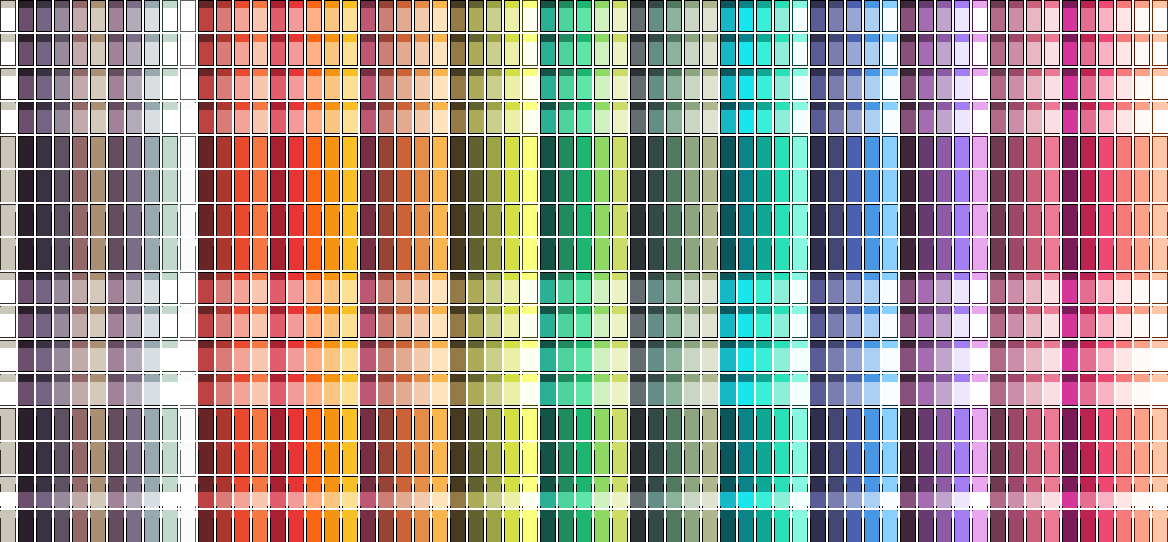
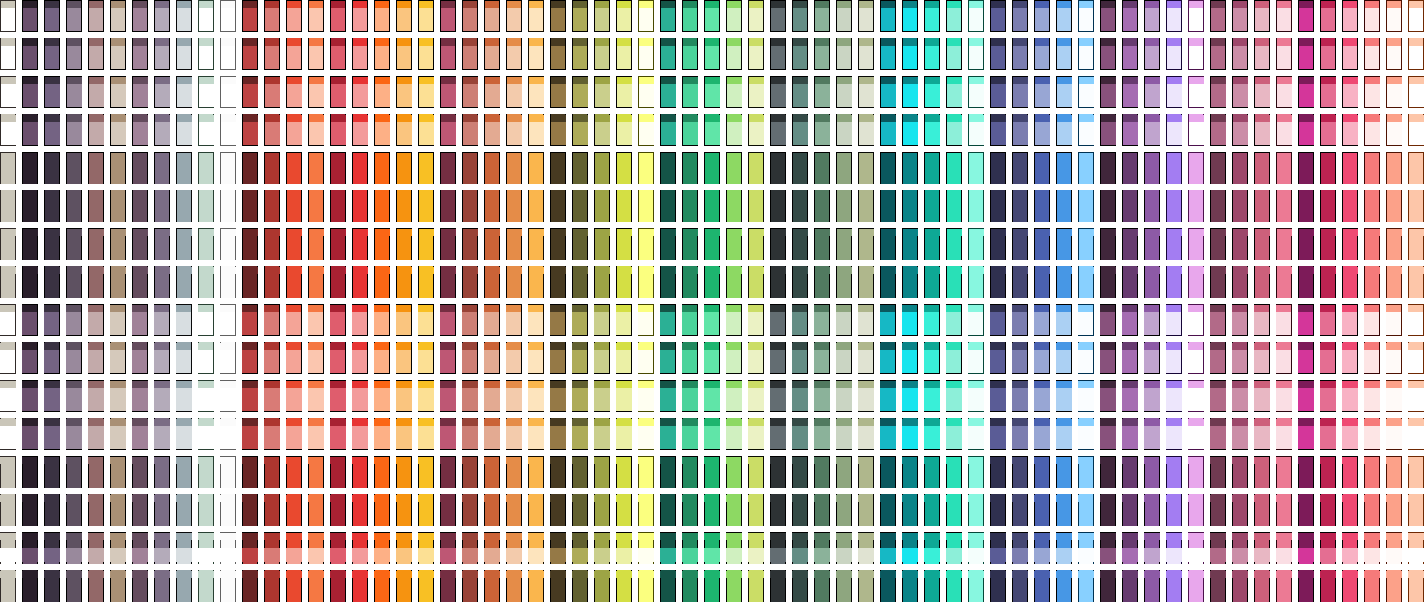
tiled: 6px wall spacing, fix broken image import, support image flip
- Bump WALL_TILE_SPACING 2 -> 6px per feedback (still just a sheet-layout
  spacer, no GID/index math affected).
- Fix images not rendering: import hardcoded png/images/<imageId>.png as
  the ONLY source for a tile's bytes, ignoring the tile's own `image`
  path entirely. A tile added directly in Tiled's Tileset editor (Edit
  Tileset -> Add Tiles, pointing at any file) now resolves correctly —
  confirmed against the live uponu map's "uponu_logo" image, which
  silently failed to import before this. TiledRegistry now carries each
  tile's own `image` field to make this possible.
- Fix a related double-import bug surfaced by the same map: an object
  copy-pasted from an Image and then edited into a plain text label kept
  its old `type: 'Image'` + `imageId` property, so it imported as BOTH a
  broken image and a text label. A native Tiled Text object (has its own
  `text` field) now wins outright over any such stale `type`.
- PlacedImage gains flippedHorizontally/flippedVertically, mapped onto
  Tiled's native GID flip bits (H and V only, no diagonal) and applied at
  render time — unlike furniture's hand-drawn 2.5D art, an arbitrary
  uploaded image has no fixed camera angle, so both directions are safe.

diff --git a/server/src/tiled/mapBridge.ts b/server/src/tiled/mapBridge.ts
@@ -46,11 +46,15 @@ function wallBitmask(layout: OfficeLayout, col: number, row: number): number {
   return mask;
 }
 
-/** Tiled's own GID horizontal-flip bit (top bit of the 32-bit GID field) —
- *  plain addition/subtraction, not a bitwise op: these GIDs are always far
- *  below 2^31, and JS's bitwise operators coerce to signed Int32 first,
- *  which would turn 0x80000000 negative. */
+/** Tiled's own GID flip bits (top two bits of the 32-bit GID field) — plain
+ *  addition/subtraction, not a bitwise op: these GIDs are always far below
+ *  2^31, and JS's bitwise operators coerce to signed Int32 first, which
+ *  would turn 0x80000000/0x40000000 negative. Only H/V are used (see
+ *  PlacedFurniture/PlacedImage's flippedHorizontally/flippedVertically) —
+ *  Tiled's third bit (diagonal flip, 0x20000000) has no corresponding
+ *  concept here and is never set or read. */
 const TILED_FLIP_H = 0x80000000;
+const TILED_FLIP_V = 0x40000000;
 
 /** `flippedHorizontally` (see PlacedFurniture) maps directly onto Tiled's own
  *  GID flip bit — purely cosmetic, so Tiled's canvas shows a real mirrored
@@ -294,8 +298,9 @@ export function exportLayoutToTmj(layout: OfficeLayout, registry: TiledRegistry,
   // images.tsj (not yet baked since it was uploaded) is skipped, matching
   // the live renderer's own skip for a deleted image.
   const imageObjects = (layout.images ?? []).flatMap((im, idx) => {
-    const gid = findGid(registry, 'images.tsj', (props) => props.imageId === im.imageId);
-    if (gid === null) return [];
+    const baseGid = findGid(registry, 'images.tsj', (props) => props.imageId === im.imageId);
+    if (baseGid === null) return [];
+    const gid = baseGid + (im.flippedHorizontally ? TILED_FLIP_H : 0) + (im.flippedVertically ? TILED_FLIP_V : 0);
     return [
       {
         id: idx + 1,
@@ -439,8 +444,10 @@ export function importTmjToLayout(
   // silently dropped — verified against a real hand-authored map where over
   // half the placed furniture had exactly this shape.
   const baseGid = (gid: unknown): number => {
-    const raw = Number(gid) || 0;
-    return raw >= TILED_FLIP_H ? raw - TILED_FLIP_H : raw;
+    let raw = Number(gid) || 0;
+    if (raw >= TILED_FLIP_H) raw -= TILED_FLIP_H;
+    if (raw >= TILED_FLIP_V) raw -= TILED_FLIP_V;
+    return raw;
   };
   const isFurnitureTileObject = (o: Record<string, unknown>): boolean => {
     const gid = baseGid(o.gid);
@@ -454,10 +461,19 @@ export function importTmjToLayout(
     const gid = baseGid(o.gid);
     return gid > 0 && resolveGid(gid)?.class === 'ImageTile';
   };
-  const furnitureObjects = allObjects.filter((o) => o.type === 'FurnitureObject' || isFurnitureTileObject(o));
-  const actionObjects = allObjects.filter((o) => o.type === 'ActionArea');
-  const textObjects = allObjects.filter((o) => o.text !== undefined);
-  const imageObjects = allObjects.filter((o) => o.type === 'Image' || isImageTileObject(o));
+  // Tiled's own `text` field is set structurally only by a genuine native
+  // Text object (Insert Text) — never by a custom `type`/property, unlike
+  // every other classification below. It wins outright over a stale/leftover
+  // `type: 'Image'` (etc.) that a copy-pasted-then-retyped object can end up
+  // dragging along from whatever it was copied from — confirmed against a
+  // live map where two objects copy-pasted from an Image and then edited
+  // into plain text labels still carried the old `type: 'Image'` + `imageId`
+  // property, silently double-importing as a broken image AND a text label.
+  const isTextObject = (o: Record<string, unknown>): boolean => o.text !== undefined;
+  const furnitureObjects = allObjects.filter((o) => !isTextObject(o) && (o.type === 'FurnitureObject' || isFurnitureTileObject(o)));
+  const actionObjects = allObjects.filter((o) => !isTextObject(o) && o.type === 'ActionArea');
+  const textObjects = allObjects.filter(isTextObject);
+  const imageObjects = allObjects.filter((o) => !isTextObject(o) && (o.type === 'Image' || isImageTileObject(o)));
 
   const tiles: number[] = [];
   const tileColors: OfficeLayout['tileColors'] = [];
@@ -597,12 +613,16 @@ export function importTmjToLayout(
     const imageId = typeof props.imageId === 'string' && props.imageId ? props.imageId : typeof resolvedTile?.props.imageId === 'string' ? resolvedTile.props.imageId : null;
     if (!imageId) continue;
     const footprintH = Math.max(1, Math.round(Number(obj.height) / TILE_SIZE));
-    // Baked images live at one global location (assets/tiled/png/images/),
-    // never zone-relative — readImageFile resolves against assets/tiled
-    // itself (see zoneImport.ts).
-    const buffer = readImageFile(`png/images/${imageId}.png`);
+    // Prefer the tile's own declared `image` path — a mapper can add a tile
+    // straight in Tiled's Tileset editor (Edit Tileset → Add Tiles) pointing
+    // at whatever file they picked, entirely bypassing bake-images-tiled.mts
+    // and its png/images/<imageId>.png convention; that convention is only a
+    // fallback for the cases with no such tile at all (a bare `type: 'Image'`
+    // object with no gid). readImageFile resolves both against assets/tiled
+    // itself, never zone-relative (see zoneImport.ts).
+    const buffer = readImageFile(resolvedTile?.image ?? `png/images/${imageId}.png`);
     if (buffer) importedImages.push({ imageId, label: imageId, buffer });
-    images.push({
+    const image: PlacedImage = {
       uid: generateUid(),
       col: Math.round(Number(obj.x) / TILE_SIZE),
       // Same bottom-edge Y anchor as any other GID-backed tile object — see
@@ -611,7 +631,17 @@ export function importTmjToLayout(
       footprintW: Math.max(1, Math.round(Number(obj.width) / TILE_SIZE)),
       footprintH,
       imageId,
-    });
+    };
+    // Decode both flip bits independently — strip H first so a lingering H
+    // bit can't be mistaken for V (H > V, so any H-flipped gid is already
+    // >= TILED_FLIP_V on its own).
+    let flipBits = rawGid;
+    if (flipBits >= TILED_FLIP_H) {
+      image.flippedHorizontally = true;
+      flipBits -= TILED_FLIP_H;
+    }
+    if (flipBits >= TILED_FLIP_V) image.flippedVertically = true;
+    images.push(image);
   }
 
   const layout: OfficeLayout = {

diff --git a/server/src/tiled/tiledRegistry.ts b/server/src/tiled/tiledRegistry.ts
@@ -20,6 +20,7 @@ type TiledProp = { name: string; type?: string; value: string | number | boolean
 interface TiledTileJson {
   id: number;
   type?: string;
+  image?: string;
   properties?: TiledProp[];
 }
 interface TiledTilesetJson {
@@ -34,6 +35,13 @@ export interface RegistryTile {
    *  tile (e.g. collision.tsj's parameterless marker). */
   class?: string;
   props: Record<string, string | number | boolean>;
+  /** This tile's own `image` path (relative to assets/tiled/), for a
+   *  "Collection of Images" tile (see images.tsj/ImageTile) — e.g. a tile a
+   *  mapper added directly in Tiled's Tileset editor, pointing at whatever
+   *  file they picked, not necessarily one baked by bake-images-tiled.mts.
+   *  Undefined for tiles from a single-image (grid) tileset, where the path
+   *  lives on the tileset itself instead. */
+  image?: string;
 }
 
 export interface RegistryTileset {
@@ -78,7 +86,7 @@ export function loadTiledRegistry(assetsRoot: string): TiledRegistry {
     const tiles: RegistryTile[] = [];
     for (let id = 0; id < json.tilecount; id++) {
       const t = byId.get(id);
-      tiles.push({ class: t?.type, props: t ? propsOf(t) : {} });
+      tiles.push({ class: t?.type, props: t ? propsOf(t) : {}, image: t?.image });
     }
     tilesets.push({ file, name: json.name, firstgid: nextGid, tileCount: json.tilecount, tiles });
     nextGid += json.tilecount;
@@ -124,7 +132,7 @@ export function gidAt(registry: TiledRegistry, file: string, localId: number): n
 export function resolveFromTmjTilesets(
   registry: TiledRegistry,
   tmjTilesets: Array<{ firstgid: number; source: string }>,
-): (gid: number) => { tileset: RegistryTileset; localId: number; class?: string; props: Record<string, string | number | boolean> } | null {
+): (gid: number) => { tileset: RegistryTileset; localId: number; class?: string; props: Record<string, string | number | boolean>; image?: string } | null {
   const entries = tmjTilesets
     .map((t) => {
       const ts = registry.bySource(path.basename(String(t.source)));
@@ -138,7 +146,7 @@ export function resolveFromTmjTilesets(
       if (gid >= firstgid && gid < firstgid + tileset.tileCount) {
         const localId = gid - firstgid;
         const tile = tileset.tiles[localId];
-        return { tileset, localId, class: tile?.class, props: tile?.props ?? {} };
+        return { tileset, localId, class: tile?.class, props: tile?.props ?? {}, image: tile?.image };
       }
     }
     return null;

diff --git a/server/src/layoutSanitize.ts b/server/src/layoutSanitize.ts
@@ -63,7 +63,16 @@ export function sanitizeLayoutTexts(layout: Record<string, unknown>): Record<str
 export function sanitizeLayoutImages(layout: Record<string, unknown>): Record<string, unknown> {
   const images = layout.images;
   if (!Array.isArray(images)) return layout;
-  const clean: Array<{ uid: string; col: number; row: number; footprintW: number; footprintH: number; imageId: string }> = [];
+  const clean: Array<{
+    uid: string;
+    col: number;
+    row: number;
+    footprintW: number;
+    footprintH: number;
+    imageId: string;
+    flippedHorizontally?: boolean;
+    flippedVertically?: boolean;
+  }> = [];
   for (const img of images) {
     if (clean.length >= MAX_PLACED_IMAGES) break;
     if (!img || typeof img !== 'object') continue;
@@ -73,7 +82,10 @@ export function sanitizeLayoutImages(layout: Record<string, unknown>): Record<st
     const fw = Number(rec.footprintW);
     const fh = Number(rec.footprintH);
     if (!Number.isInteger(fw) || !Number.isInteger(fh) || fw < 1 || fh < 1 || fw > 16 || fh > 16) continue;
-    clean.push({ uid: rec.uid, col: rec.col, row: rec.row, footprintW: fw, footprintH: fh, imageId: rec.imageId });
+    const entry: (typeof clean)[number] = { uid: rec.uid, col: rec.col, row: rec.row, footprintW: fw, footprintH: fh, imageId: rec.imageId };
+    if (rec.flippedHorizontally === true) entry.flippedHorizontally = true;
+    if (rec.flippedVertically === true) entry.flippedVertically = true;
+    clean.push(entry);
   }
   layout.images = clean;
   return layout;

diff --git a/server/src/tiled/zoneImport.ts b/server/src/tiled/zoneImport.ts
@@ -63,10 +63,10 @@ export function resolveZoneId(tmjPath: string, filename: string): string {
 /** Import one zones/<file>.tmj into a saved layout for `zoneId`, making it
  *  that zone's active layout (matches LayoutStore.saveAs, the same call the
  *  in-game "Save As" uses). Placed images resolve against assets/tiled
- *  itself (png/images/<id>.png, baked by bake-images-tiled.mts) — one global
- *  location, not zone-relative, since the underlying Tiled object is now a
- *  real GID-backed tile from the shared images.tsj tileset (see
- *  mapBridge.ts). */
+ *  itself, never zone-relative — either the referenced tile's own `image`
+ *  path (any file a mapper added directly via Tiled's Tileset editor), or
+ *  the png/images/<id>.png convention bake-images-tiled.mts writes, as a
+ *  fallback for a bare (non-tile) Image object (see mapBridge.ts). */
 export async function importZoneTmjFile(
   tmjPath: string,
   registry: TiledRegistry,

diff --git a/client/src/render/PhaserRenderer.ts b/client/src/render/PhaserRenderer.ts
@@ -213,7 +213,14 @@ export class PhaserRenderer {
       const y = pi.row * TILE_SIZE;
       const w = pi.footprintW * TILE_SIZE;
       const h = pi.footprintH * TILE_SIZE;
-      const img = this.scene.add.image(0, 0, '__DEFAULT').setOrigin(0, 0).setPosition(x, y).setDisplaySize(w, h).setDepth(IMAGE_DEPTH);
+      const img = this.scene.add
+        .image(0, 0, '__DEFAULT')
+        .setOrigin(0, 0)
+        .setPosition(x, y)
+        .setDisplaySize(w, h)
+        .setDepth(IMAGE_DEPTH)
+        .setFlipX(!!pi.flippedHorizontally)
+        .setFlipY(!!pi.flippedVertically);
       ensureImageTexture(this.scene, asset.id, asset.data, (key) => {
         img.setTexture(key).setDisplaySize(w, h);
       });

diff --git a/shared/src/office/types.ts b/shared/src/office/types.ts
@@ -381,6 +381,14 @@ export interface PlacedImage {
   footprintW: number;
   footprintH: number;
   imageId: string;
+  /** Mirror the image horizontally/vertically — maps directly onto Tiled's
+   *  own GID flip bits (see mapBridge.ts), same convention as
+   *  PlacedFurniture.flippedHorizontally. Unlike furniture (hand-drawn 2.5D
+   *  art, vertical flip would render broken), an arbitrary uploaded image
+   *  has no fixed camera angle, so both directions are supported. Unset =
+   *  false. */
+  flippedHorizontally?: boolean;
+  flippedVertically?: boolean;
 }
 
 export interface OfficeLayout {

diff --git a/shared/src/office/tiledSheetLayout.ts b/shared/src/office/tiledSheetLayout.ts
@@ -25,7 +25,7 @@ export const WALL_BITMASK_COUNT = 16;
  *  where that tile sits in pixels, which both the bake script and the
  *  client's sheet slicer must agree on. Floor tiles don't have this
  *  ambiguity (no directional edges to confuse), so they stay at 0 gap. */
-export const WALL_TILE_SPACING = 2;
+export const WALL_TILE_SPACING = 6;
 
 /** One entry per floor "set" — index = OfficeLayout.tileFloorSet, matching
  *  a <name>.tsj / png/<name>.png pair (server/scripts/bake-floor-wall-tiled.mts

diff --git a/docs/design/tiled-custom-properties-reference.md b/docs/design/tiled-custom-properties-reference.md
@@ -144,6 +144,12 @@ Tile (T)** from `images.tsj` (see below), not a custom shape.
 |---|---|---|---|
 | `imageId` | string | required unless the object has a `gid` (see below) | The stable id this image is stored/looked-up under in the live game. Always present on the tile itself (baked by bake-images-tiled.mts), so a plain Insert Tile placement with no properties of its own still resolves correctly — see FurnitureObject's identical `id` fallback above. |
 
+Tiled's native horizontal/vertical flip (right-click the object, or the
+Tileset panel's flip buttons before placing) is supported and round-trips —
+unlike furniture's hand-drawn 2.5D art, an arbitrary uploaded image has no
+fixed camera angle, so both directions are safe (see
+`PlacedImage.flippedHorizontally`/`flippedVertically`).
+
 **`images.tsj`** *(ImageTile, useAs: tile)* is a generated "collection of
 images" tileset — one tile per image uploaded via the in-game Assets editor,
 each its own independently-sized PNG (no shared grid). Regenerate it with
@@ -154,6 +160,25 @@ then Insert Tile (T), pick it from the Tilesets panel, and place/scale it
 like any other tile object. If `imageId` can't be resolved (neither the
 object's own property nor the tile's), the object is silently skipped on
 import — no error, it just won't show up.
+
+You don't have to go through the bake script at all, though: **Tiled's own
+Tileset editor** (open `images.tsj`, "Edit Tileset", then "Add Tiles") lets
+you add a tile pointing at *any* PNG on disk directly — import reads that
+tile's own `image` path first, falling back to the
+`png/images/<imageId>.png` convention only for a bare (non-tile) Image
+object. Give the new tile an `imageId` property (on the tile, or on the
+object placed from it) so it has a stable id in the live game; the tile's
+`image` path is otherwise read exactly as Tiled wrote it, no re-baking
+needed.
+
+A copy-pasted object keeps carrying whatever `type`/properties it was copied
+from even after you change its content — e.g. duplicating an `Image` object
+and turning it into a text label leaves a stale `type: 'Image'` +`imageId`
+behind, which used to double-import as both a (broken) image and a text
+label. Import now treats a native Tiled Text object (anything with its own
+`text` field) as authoritative over any such leftover `type`, so this no
+longer happens — but it's worth clearing the stale properties by hand too,
+since Tiled's own UI still shows them.
 
 ### GroundLayer *(useAs: layer)*
 
